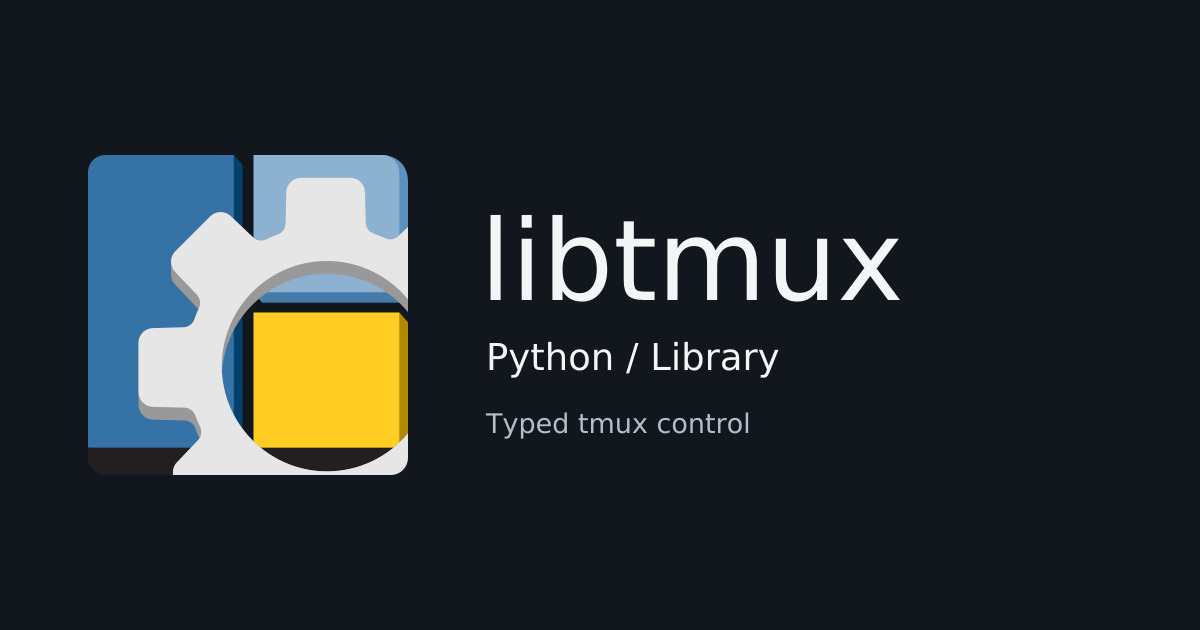
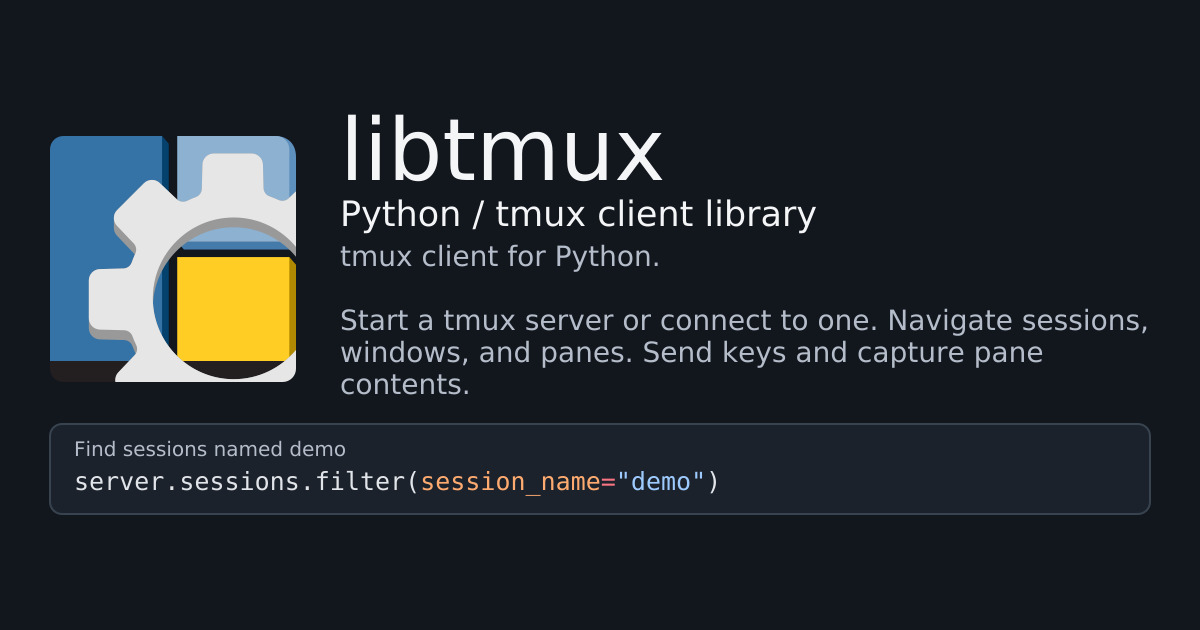
Docs(brand): Show a query on the sharing card
why: Sharing a library link should show how to query tmux in that
language.

what:
- Copy the reviewed sharing artwork and record its source revision

Changed region(s): [[0.0308, 0.181, 0.9558, 0.7841], [0.0617, 0.8143, 0.925, 0.8444]]

diff --git a/assets/README.md b/assets/README.md
@@ -12,3 +12,6 @@ symbol comes from the [upstream logo](https://github.com/modelcontextprotocol/mo
 Package-specific artwork sits beside its README where the package format
 supports it. `.github/social-preview.png` is the cog sharing card, ready to
 upload under the repository's **Settings → Social preview**.
+
+Library sharing images come from `assets/python/library/`
+at kit revision `c9688d9db25e4c522ff1255d0f3badaf27d780dd`.
